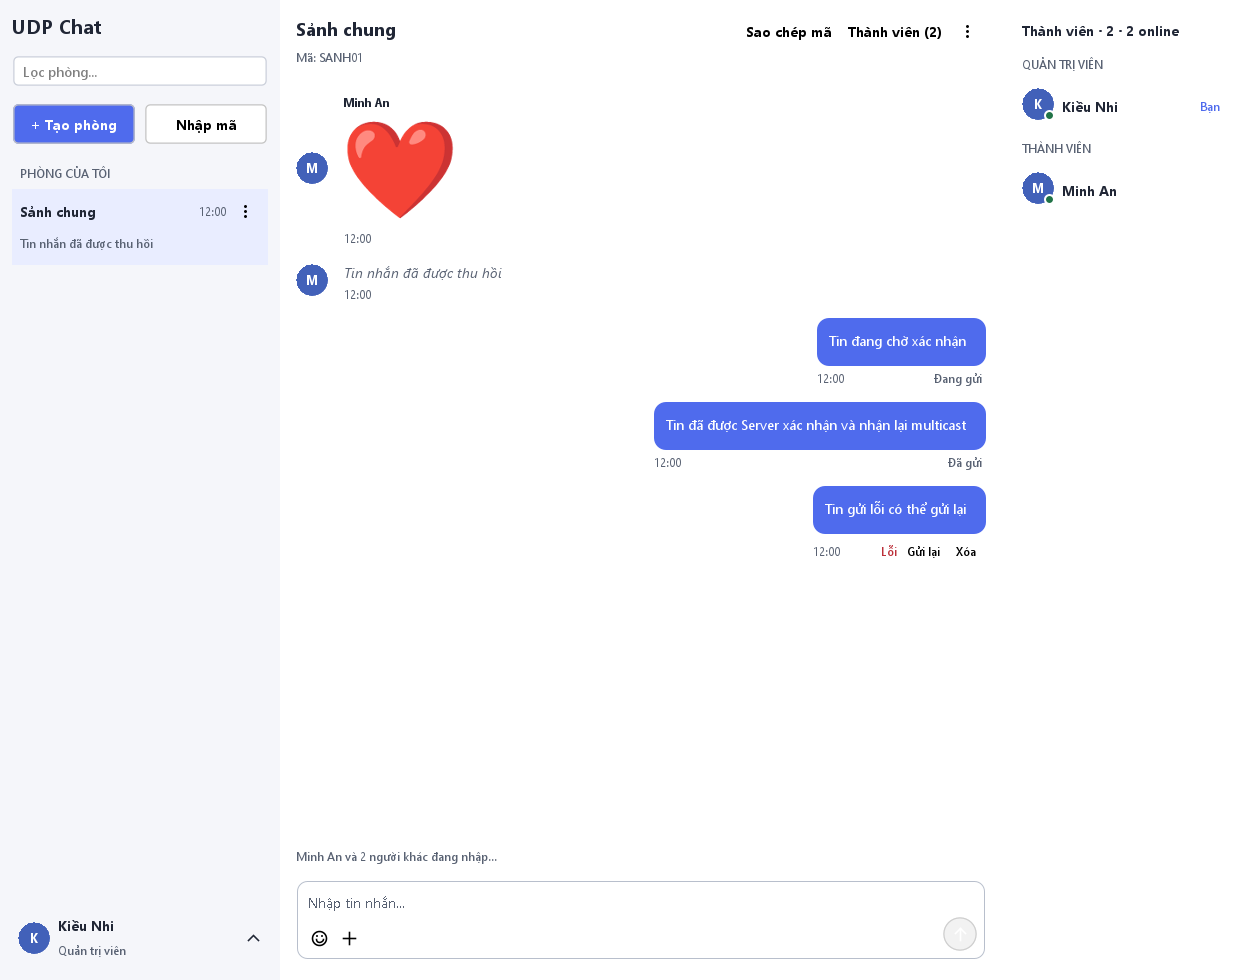
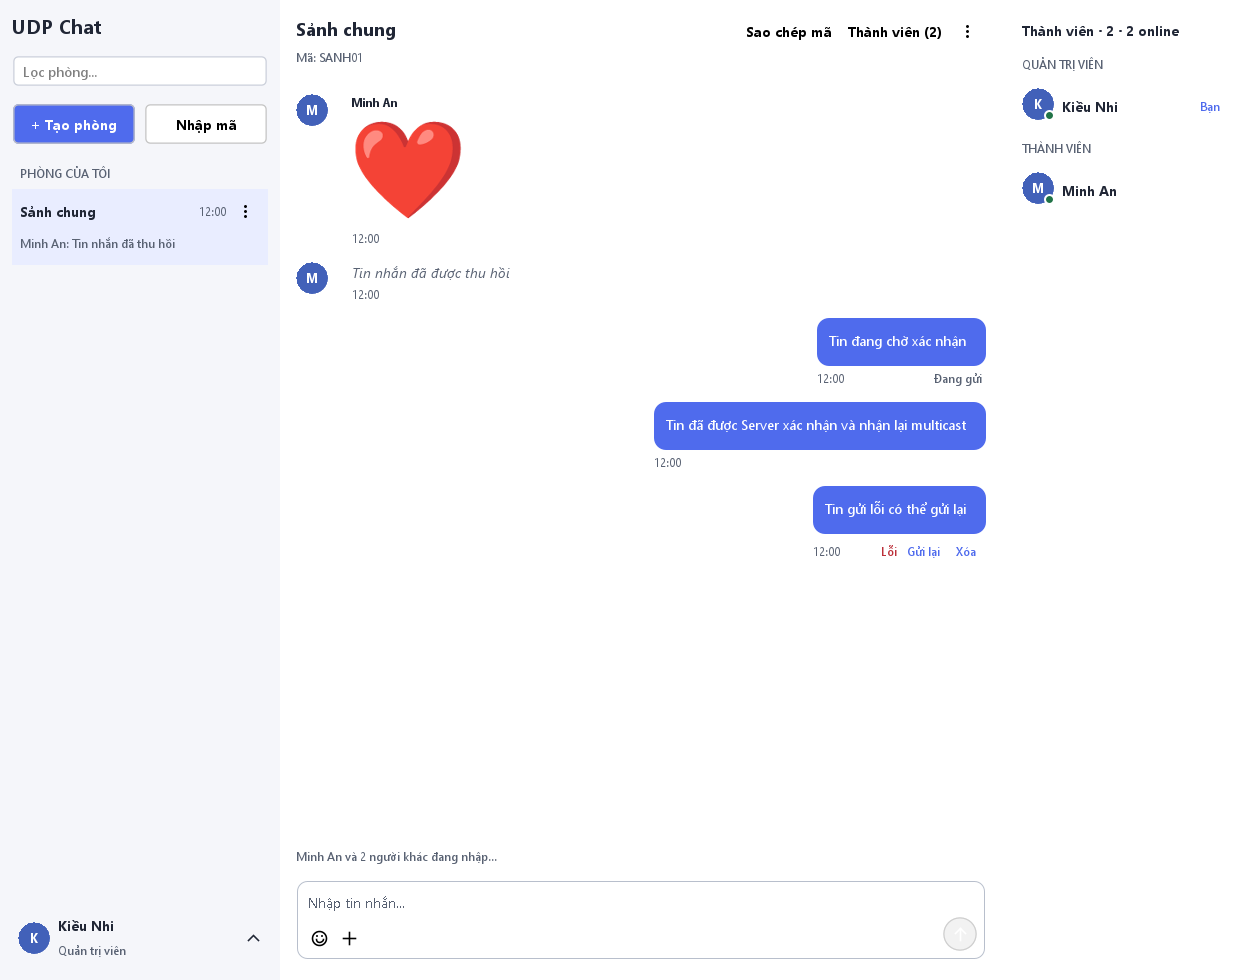
M3b.1 xong

diff --git a/src/main/java/com/mycompany/udpmultichat/ui/HangTin.java b/src/main/java/com/mycompany/udpmultichat/ui/HangTin.java
@@ -19,6 +19,7 @@ final class HangTin extends JPanel {
     private final Consumer<String> hanhDong;
     private final BooleanSupplier quanLy;
     private String trangThai="",lyDo="";
+    private boolean hienDaGui=true;
     private final JPanel the=new JPanel(new BorderLayout(0,Theme.S4));
     // Renderer doc cache RAM; callback chi gui lenh qua UI/Core.
     HangTin(TinNhan t,boolean toi,Supplier<BufferedImage> anh,Supplier<String> ten,BooleanSupplier quanLy,Consumer<String> hanhDong) {
@@ -32,15 +33,23 @@ final class HangTin extends JPanel {
     TinNhan tin() { return tin; }
     // Trang thai chi duoc Core phat, renderer khong tu doan ACK.
     void trangThai(String ma,String loi) { trangThai=ma; lyDo=loi; veLai(); }
+    // Chi tin moi nhat cua minh duoc hien nhan Da gui.
+    void hienDaGui(boolean hien) { if (hienDaGui!=hien) { hienDaGui=hien; veLai(); } }
+    // Doc vai tro cua hang de chon tin moi nhat trong phong.
+    boolean laToi() { return toi; }
     // Ve lai giu JPanel ngoai de khong doi vi tri trong khung chat.
     void veLai() {
         removeAll(); the.removeAll();
-        if (!toi) { add(new ThanhPhan.Avatar(ten.get(),null,anh)); }
+        if (!toi) {
+            JPanel tren=new JPanel(new BorderLayout()); tren.setOpaque(false); tren.add(new ThanhPhan.Avatar(ten.get(),null,anh),BorderLayout.NORTH); add(tren);
+        }
         JComponent nd=noiDung(); the.add(nd);
         JPanel duoi=new JPanel(new BorderLayout(Theme.S8,0)); duoi.setOpaque(false);
         JLabel gio=Theme.nhan(GIO.format(Instant.ofEpochMilli(tin.thoiGian)),false); gio.setFont(Theme.NHO); gio.setForeground(Theme.PHU);
-        duoi.add(gio,BorderLayout.WEST); if (toi && !trangThai.isEmpty()) { duoi.add(trangThaiGui()); }
-        the.add(duoi,BorderLayout.SOUTH); add(the); ganMenu(this); revalidate(); repaint();
+        duoi.add(gio,BorderLayout.WEST); if (toi && !trangThai.isEmpty() && (!trangThai.equals("SENT") || hienDaGui)) { duoi.add(trangThaiGui()); }
+        the.add(duoi,BorderLayout.SOUTH); add(the);
+        if (!toi && getComponentCount()>1) { getComponent(0).setPreferredSize(new Dimension(40,the.getPreferredSize().height)); }
+        ganMenu(this); revalidate(); repaint();
     }
     // Sticker khong bong nen; thu hoi khong giu noi dung trong component hay tooltip.
     private JComponent noiDung() {
@@ -61,7 +70,11 @@ final class HangTin extends JPanel {
         String text=switch (trangThai) { case "WAIT" -> "Đang gửi"; case "ERROR" -> "Lỗi"; default -> "Đã gửi"; };
         JLabel l=Theme.nhan(text,false); l.setFont(Theme.NHO); l.setForeground(trangThai.equals("ERROR")?Theme.LOI:Theme.PHU); l.setToolTipText(lyDo); p.add(l);
         if (trangThai.equals("ERROR")) {
-            for (String lenh:new String[]{"Gửi lại","Xóa"}) { JButton b=Theme.nutNhe(lenh,""); b.setFont(Theme.NHO); b.addActionListener(e -> hanhDong.accept(lenh)); p.add(b); }
+            for (String lenh:new String[]{"Gửi lại","Xóa"}) { JButton b=Theme.nutNhe(lenh,""); b.setFont(Theme.NHO); b.setForeground(Theme.CHINH); b.setCursor(Cursor.getPredefinedCursor(Cursor.HAND_CURSOR));
+                b.addMouseListener(new java.awt.event.MouseAdapter() {
+                    public void mouseEntered(java.awt.event.MouseEvent e) { b.setFont(Theme.NHO.deriveFont(java.util.Map.of(java.awt.font.TextAttribute.UNDERLINE,java.awt.font.TextAttribute.UNDERLINE_ON))); }
+                    public void mouseExited(java.awt.event.MouseEvent e) { b.setFont(Theme.NHO); }
+                }); b.addActionListener(e -> hanhDong.accept(lenh)); p.add(b); }
         }
         return p;
     }
@@ -72,11 +85,11 @@ final class HangTin extends JPanel {
     }
     // Server kiem tra lai quyen va 10 phut, khong tin viec an menu tren Client.
     JPopupMenu menu() {
-        JPopupMenu m=new JPopupMenu();
+        JPopupMenu m=new JPopupMenu(); m.setBorder(javax.swing.BorderFactory.createCompoundBorder(m.getBorder(),Theme.le(Theme.S4)));
         if (!tin.thuHoi) {
             JMenuItem copy=new JMenuItem("Sao chép"); copy.addActionListener(e -> DanhSachPhongPanel.saoChep(tin.loai.equals("S")?StickerKho.ten(tin.noiDung):tin.noiDung)); m.add(copy);
             if (tin.msgId>0 && (quanLy.getAsBoolean() || (toi && System.currentTimeMillis()-tin.thoiGian<=com.mycompany.udpmultichat.common.Protocol.THU_HOI_MS))) {
-                JMenuItem thu=new JMenuItem("Thu hồi"); thu.addActionListener(e -> hanhDong.accept("Thu hồi")); m.add(thu);
+                m.addSeparator(); JMenuItem thu=new JMenuItem("Thu hồi"); thu.setForeground(Theme.LOI); thu.addActionListener(e -> hanhDong.accept("Thu hồi")); m.add(thu);
             }
         }
         return m;

diff --git a/src/main/java/com/mycompany/udpmultichat/ui/UiPreview.java b/src/main/java/com/mycompany/udpmultichat/ui/UiPreview.java
@@ -75,7 +75,7 @@ public final class UiPreview {
             f.onTrangThaiGui(new TinNhan(0,"sanh","nhi","Kiều Nhi","Tin gửi lỗi có thể gửi lại",luc,"e".repeat(22),"T"),"ERROR","Chưa nhận đủ xác nhận.");
             f.onDangGo("sanh","an","Minh An"); f.onDangGo("sanh","ha","Thu Hà"); f.onDangGo("sanh","binh","Bình");
             xuat(f.getRootPane(),"33-chat-sticker-trang-thai.png",1240,980);
-            if (demNhan(f.getRootPane(),"Đang gửi")!=1 || demNhan(f.getRootPane(),"Đã gửi")!=1 || demNhan(f.getRootPane(),"Lỗi")!=1) { throw new AssertionError("Sai ba trang thai gui"); }
+            if (demNhan(f.getRootPane(),"Đang gửi")!=1 || demNhan(f.getRootPane(),"Đã gửi")!=0 || demNhan(f.getRootPane(),"Lỗi")!=1) { throw new AssertionError("Sai ba trang thai gui"); }
             HangTin h=new HangTin(new TinNhan(4,"sanh","nhi","Kiều Nhi","Menu tin nhắn",System.currentTimeMillis(),"f".repeat(22),"T"),true,() -> null,() -> "Kiều Nhi",() -> true,l -> { });
             xuatForm(h.menu(),"34-menu-tin-nhan.png");
             f.onTrangThaiGui(new TinNhan(0,"sanh","nhi","Kiều Nhi","Tin đang chờ xác nhận",luc,"c".repeat(22),"T"),"SENT","");
@@ -83,7 +83,7 @@ public final class UiPreview {
             f.capNhatDangGo(System.nanoTime()+Protocol.TYPING_HIEN_MS*1000000L+1);
             xuat(f.getRootPane(),"35-cap-nhat-khong-trung.png",1240,980);
             if (demNhan(f.getRootPane(),"Minh An và 2 người khác đang nhập...")!=0) { throw new AssertionError("Typing khong tat sau 4 giay"); }
-            if (demNhan(f.getRootPane(),"Đang gửi")!=0 || demNhan(f.getRootPane(),"Đã gửi")!=2 || demNhan(f.getRootPane(),"Lỗi")!=0) { throw new AssertionError("Trang thai gui lai bi trung"); }
+            if (demNhan(f.getRootPane(),"Đang gửi")!=0 || demNhan(f.getRootPane(),"Đã gửi")!=1 || demNhan(f.getRootPane(),"Lỗi")!=0) { throw new AssertionError("Trang thai gui lai bi trung"); }
             HangTin la=new HangTin(new TinNhan(5,"sanh","an","Minh An","khong_co",luc,"g".repeat(22),"S"),false,() -> null,() -> "Minh An",() -> false,l -> { });
             xuat(la,"36-sticker-khong-ho-tro.png",500,180);
         } finally { f.dispose(); }

diff --git a/src/main/java/com/mycompany/udpmultichat/ui/KhungChatPanel.java b/src/main/java/com/mycompany/udpmultichat/ui/KhungChatPanel.java
@@ -50,8 +50,8 @@ final class KhungChatPanel extends JPanel {
         if (thuHoi.contains(t.msgId)) { t=t.daThuHoi(); }
         HangTin cu=theoId.get(t.msgId);
         if (cu==null && !t.maClient.isEmpty()) { cu=theoMa.get(khoa(t)); }
-        if (cu!=null) { cu.capNhat(t); theoId.put(t.msgId,cu); return; }
-        HangTin h=taoHang(t,toi); if (toi) { h.trangThai("SENT",""); } theoId.put(t.msgId,h); if (!t.maClient.isEmpty()) { theoMa.put(khoa(t),h); } them(h);
+        if (cu!=null) { cu.capNhat(t); theoId.put(t.msgId,cu); capNhatNhanGui(); return; }
+        HangTin h=taoHang(t,toi); if (toi) { h.trangThai("SENT",""); } theoId.put(t.msgId,h); if (!t.maClient.isEmpty()) { theoMa.put(khoa(t),h); } them(h); capNhatNhanGui();
     }
     // Tao hang, ten hien thi lay snapshot moi nhat theo id bat bien.
     private HangTin taoHang(TinNhan t,boolean toi) {
@@ -66,11 +66,17 @@ final class KhungChatPanel extends JPanel {
     void trangThai(TinNhan t,String ma,String loi) {
         HangTin h=theoMa.get(khoa(t));
         if (ma.equals("REMOVE")) {
-            if (h!=null) { ds.remove(h); theoMa.remove(khoa(t)); HangTin xoa=h; theoId.values().removeIf(v -> v==xoa); ds.revalidate(); ds.repaint(); } return;
+            if (h!=null) { ds.remove(h); theoMa.remove(khoa(t)); HangTin xoa=h; theoId.values().removeIf(v -> v==xoa); ds.revalidate(); ds.repaint(); capNhatNhanGui(); } return;
         }
         if (h==null) { h=taoHang(t,true); theoMa.put(khoa(t),h); them(h); }
         if (t.msgId>0) { if (thuHoi.contains(t.msgId)) { t=t.daThuHoi(); } h.capNhat(t); theoId.put(t.msgId,h); }
-        h.trangThai(ma,loi);
+        h.trangThai(ma,loi); capNhatNhanGui();
+    }
+    // Hang sau cung theo thu tu hien thi la tin moi nhat cua minh.
+    private void capNhatNhanGui() {
+        HangTin cuoi=null;
+        for (var c:ds.getComponents()) { if (c instanceof HangTin h && h.laToi()) { cuoi=h; } }
+        for (var c:ds.getComponents()) { if (c instanceof HangTin h) { h.hienDaGui(h==cuoi); } }
     }
     // Tombstone den truoc ban tin van chan noi dung cu den cham.
     void thuHoi(long id) {

diff --git a/src/main/java/com/mycompany/udpmultichat/ui/DanhSachPhongPanel.java b/src/main/java/com/mycompany/udpmultichat/ui/DanhSachPhongPanel.java
@@ -98,6 +98,12 @@ final class DanhSachPhongPanel extends JPanel {
     }
     // Preview tin cuoi khong duoc giu noi dung da thu hoi.
     void thuHoi(String room,long id) { TinNhan t=tinCuoi.get(room); if (t!=null && t.msgId==id) { tinCuoi.put(room,t.daThuHoi()); loc(); } }
+    // Nhan nguoi gui dung id, khong so sanh ten hien thi.
+    private String xemTruoc(TinNhan tin) {
+        var n=toi.get(); String ten=n!=null && n.id.equals(tin.userId)?"Bạn":tin.ten;
+        String nd=tin.thuHoi?"Tin nhắn đã thu hồi":tin.loai.equals("S")?"[Sticker] "+StickerKho.ten(tin.noiDung):tin.noiDung.replace('\n',' ');
+        return ten+": "+nd;
+    }
     // Don danh sach sau dang xuat.
     void xoa() { tinCuoi.clear(); danhSach=List.of(); dangChon=""; loc(); }
     // Chon phong tu sidebar, khong tao them tab.
@@ -138,7 +144,7 @@ final class DanhSachPhongPanel extends JPanel {
         JPanel tren=new JPanel(new BorderLayout(Theme.S4,0)); tren.setOpaque(false);
         JLabel ten=Theme.nhan(p.ten,true),gio=Theme.nhan(tin==null?"":GIO.format(Instant.ofEpochMilli(tin.thoiGian)),false);
         ten.setIcon(p.congKhai?null:Theme.icon("lock")); gio.setFont(Theme.NHO); gio.setForeground(Theme.PHU); tren.add(ten); tren.add(gio,BorderLayout.EAST);
-        JLabel nd=Theme.nhan(tin==null?(p.dangMo?p.moTa:"Phòng đang đóng"):(tin.thuHoi?"Tin nhắn đã được thu hồi":tin.ten+": "+(tin.loai.equals("S")?"[Sticker] "+StickerKho.ten(tin.noiDung):tin.noiDung.replace('\n',' '))),false); nd.setForeground(Theme.PHU); nd.setFont(Theme.NHO);
+        JLabel nd=Theme.nhan(tin==null?(p.dangMo?p.moTa:"Phòng đang đóng"):xemTruoc(tin),false); nd.setForeground(Theme.PHU); nd.setFont(Theme.NHO);
         text.add(tren); text.add(nd); h.add(text); h.add(nutPhong(p,thamGia),BorderLayout.EAST);
         h.setToolTipText(p.moTa+" · Mã: "+p.maPhong+" · Giới hạn "+p.gioiHan);
         ganClick(h,() -> { if (choPhep) { vao.accept(p); } }); h.setComponentPopupMenu(menu(p));

diff --git a/src/main/java/com/mycompany/udpmultichat/ui/HoSoDialog.java b/src/main/java/com/mycompany/udpmultichat/ui/HoSoDialog.java
@@ -147,7 +147,7 @@ public final class HoSoDialog extends JPanel {
         }));
     }
     // Icon tron dung cung renderer voi avatar trong chat.
-    private void capNhatAnh() { anh.setIcon(Theme.avatar(nguoi.tenHienThi,xemTruoc,96)); xoaAnh.setEnabled(!ban && (xemTruoc!=null || (!xoa && !nguoi.anhHash.isEmpty()))); }
+    private void capNhatAnh() { anh.setIcon(Theme.avatar(nguoi.tenHienThi,xemTruoc,96)); xoaAnh.setEnabled(!ban && (xemTruoc!=null || (!xoa && !nguoi.anhHash.isEmpty()))); xoaAnh.setDisabledIcon(null); }
     // ===== GUI BAT DONG BO =====
     private void gui() {
         if (ban || !kiemTra() || core==null) { return; }
